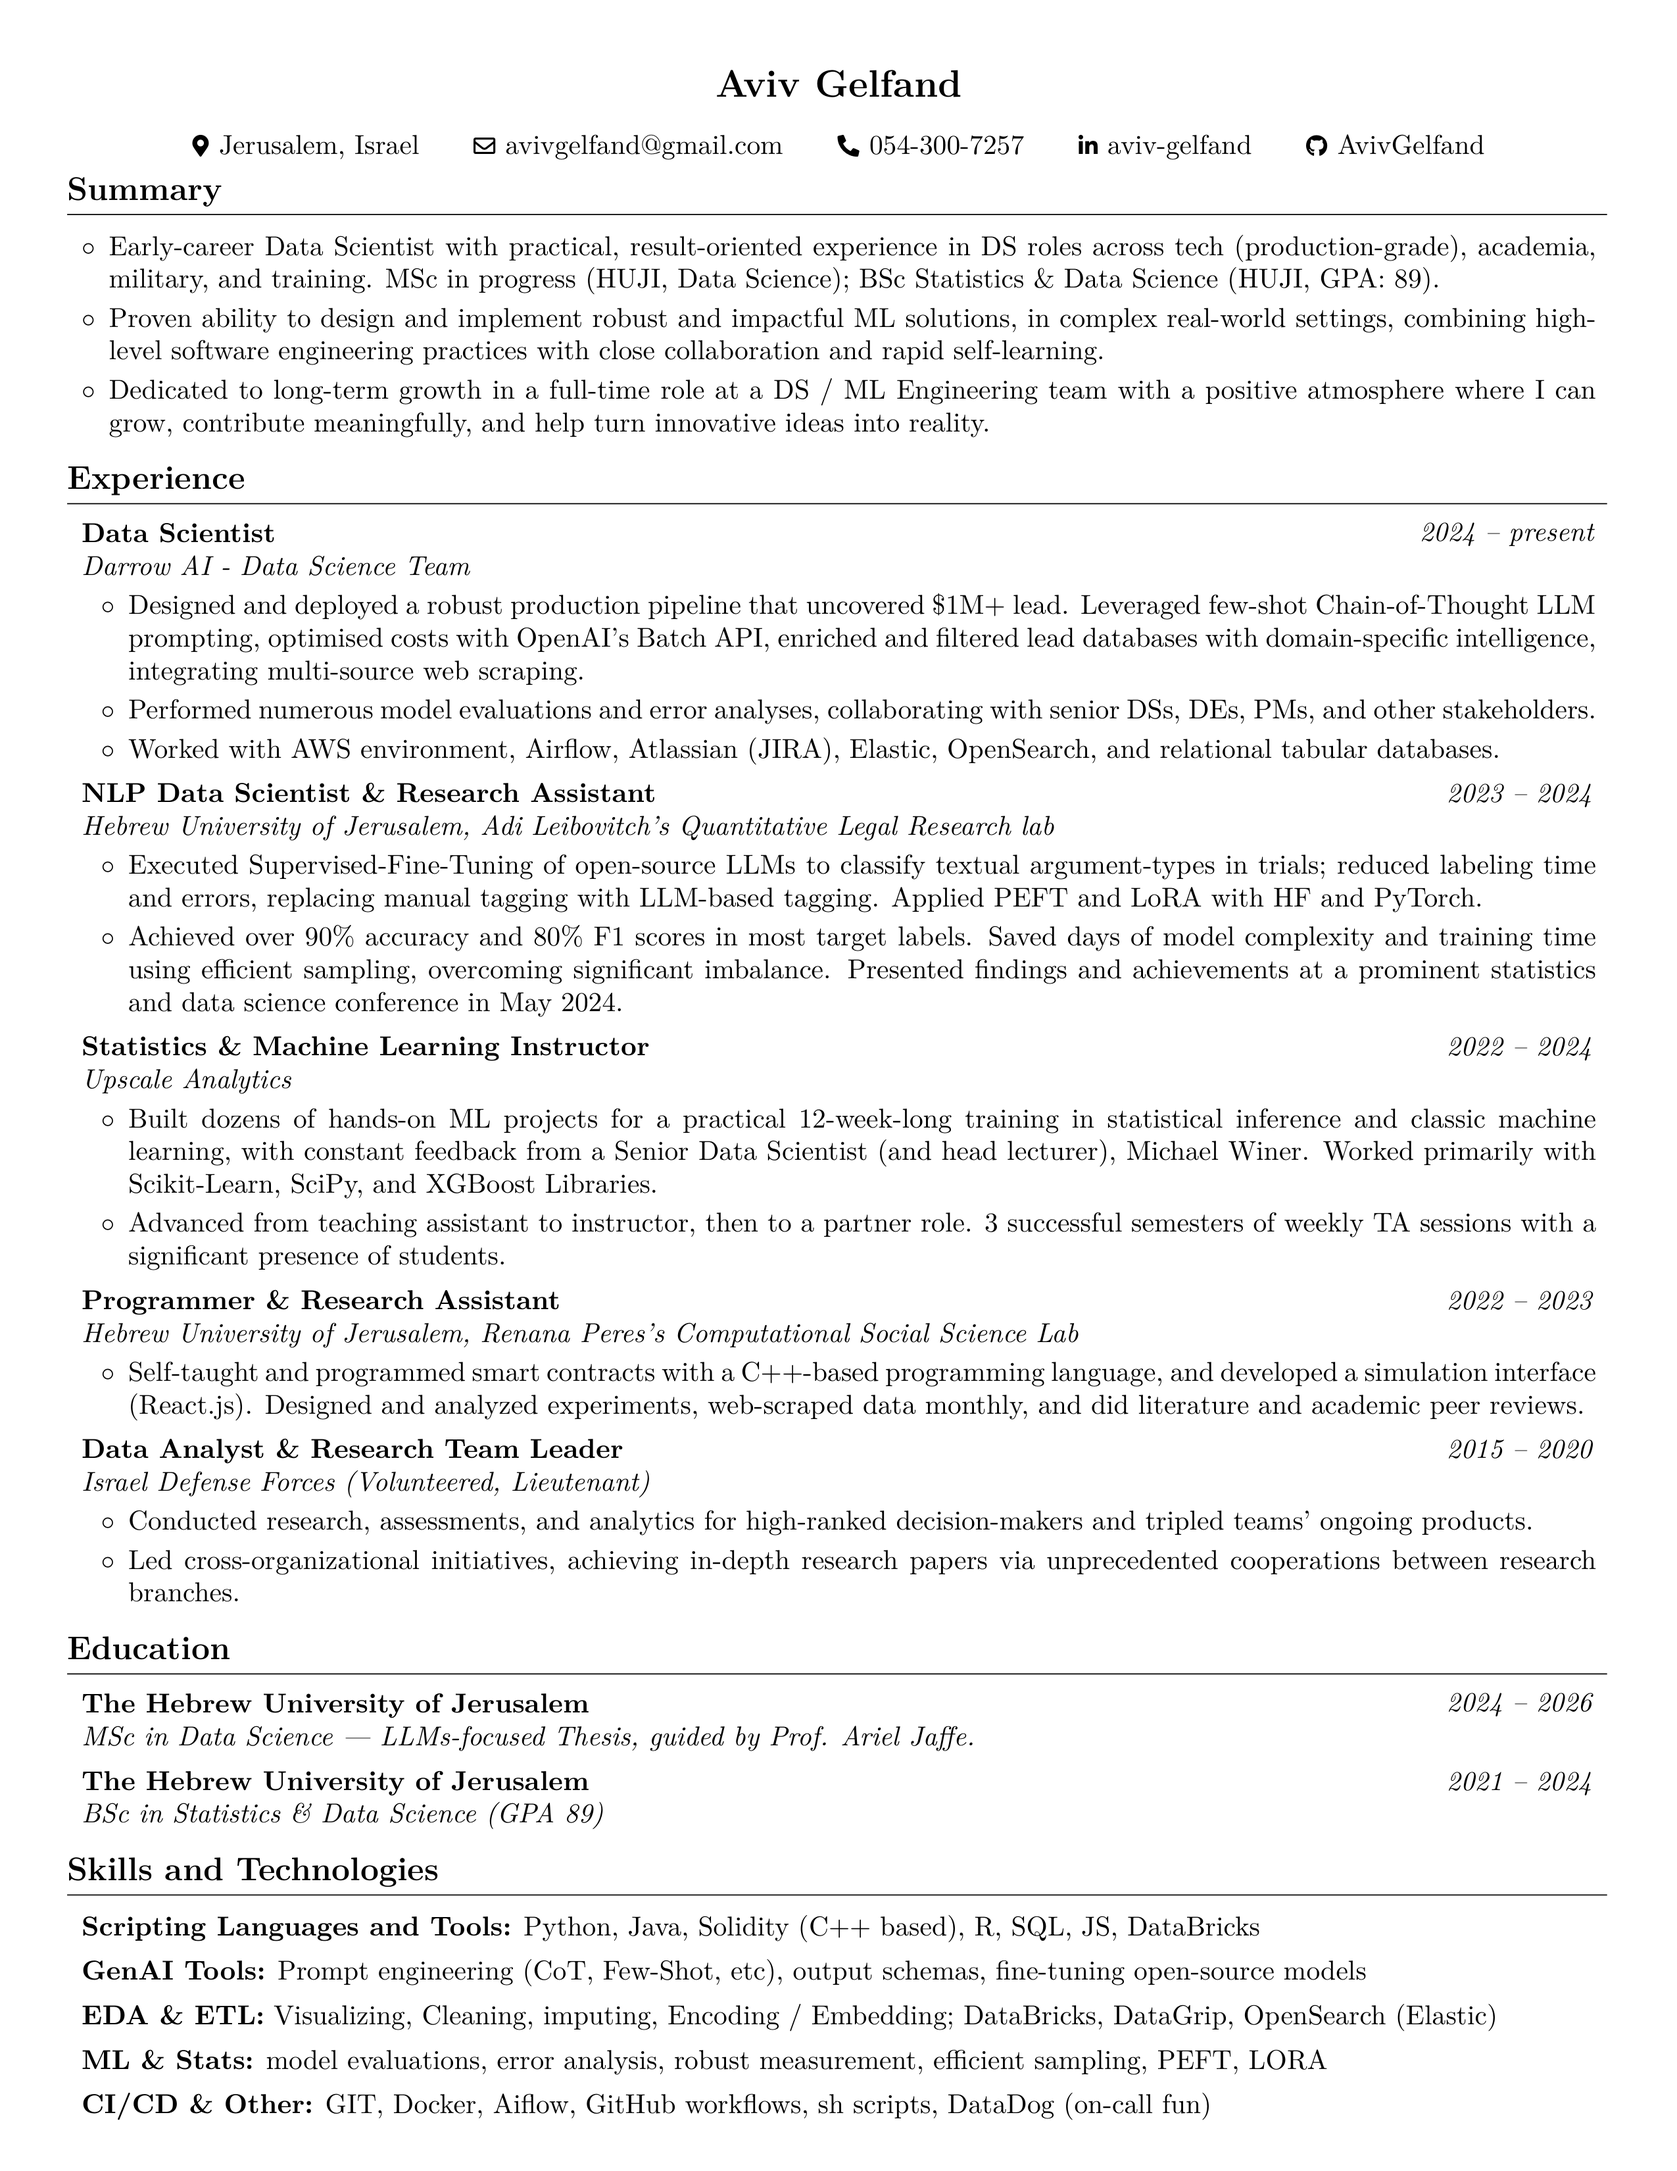
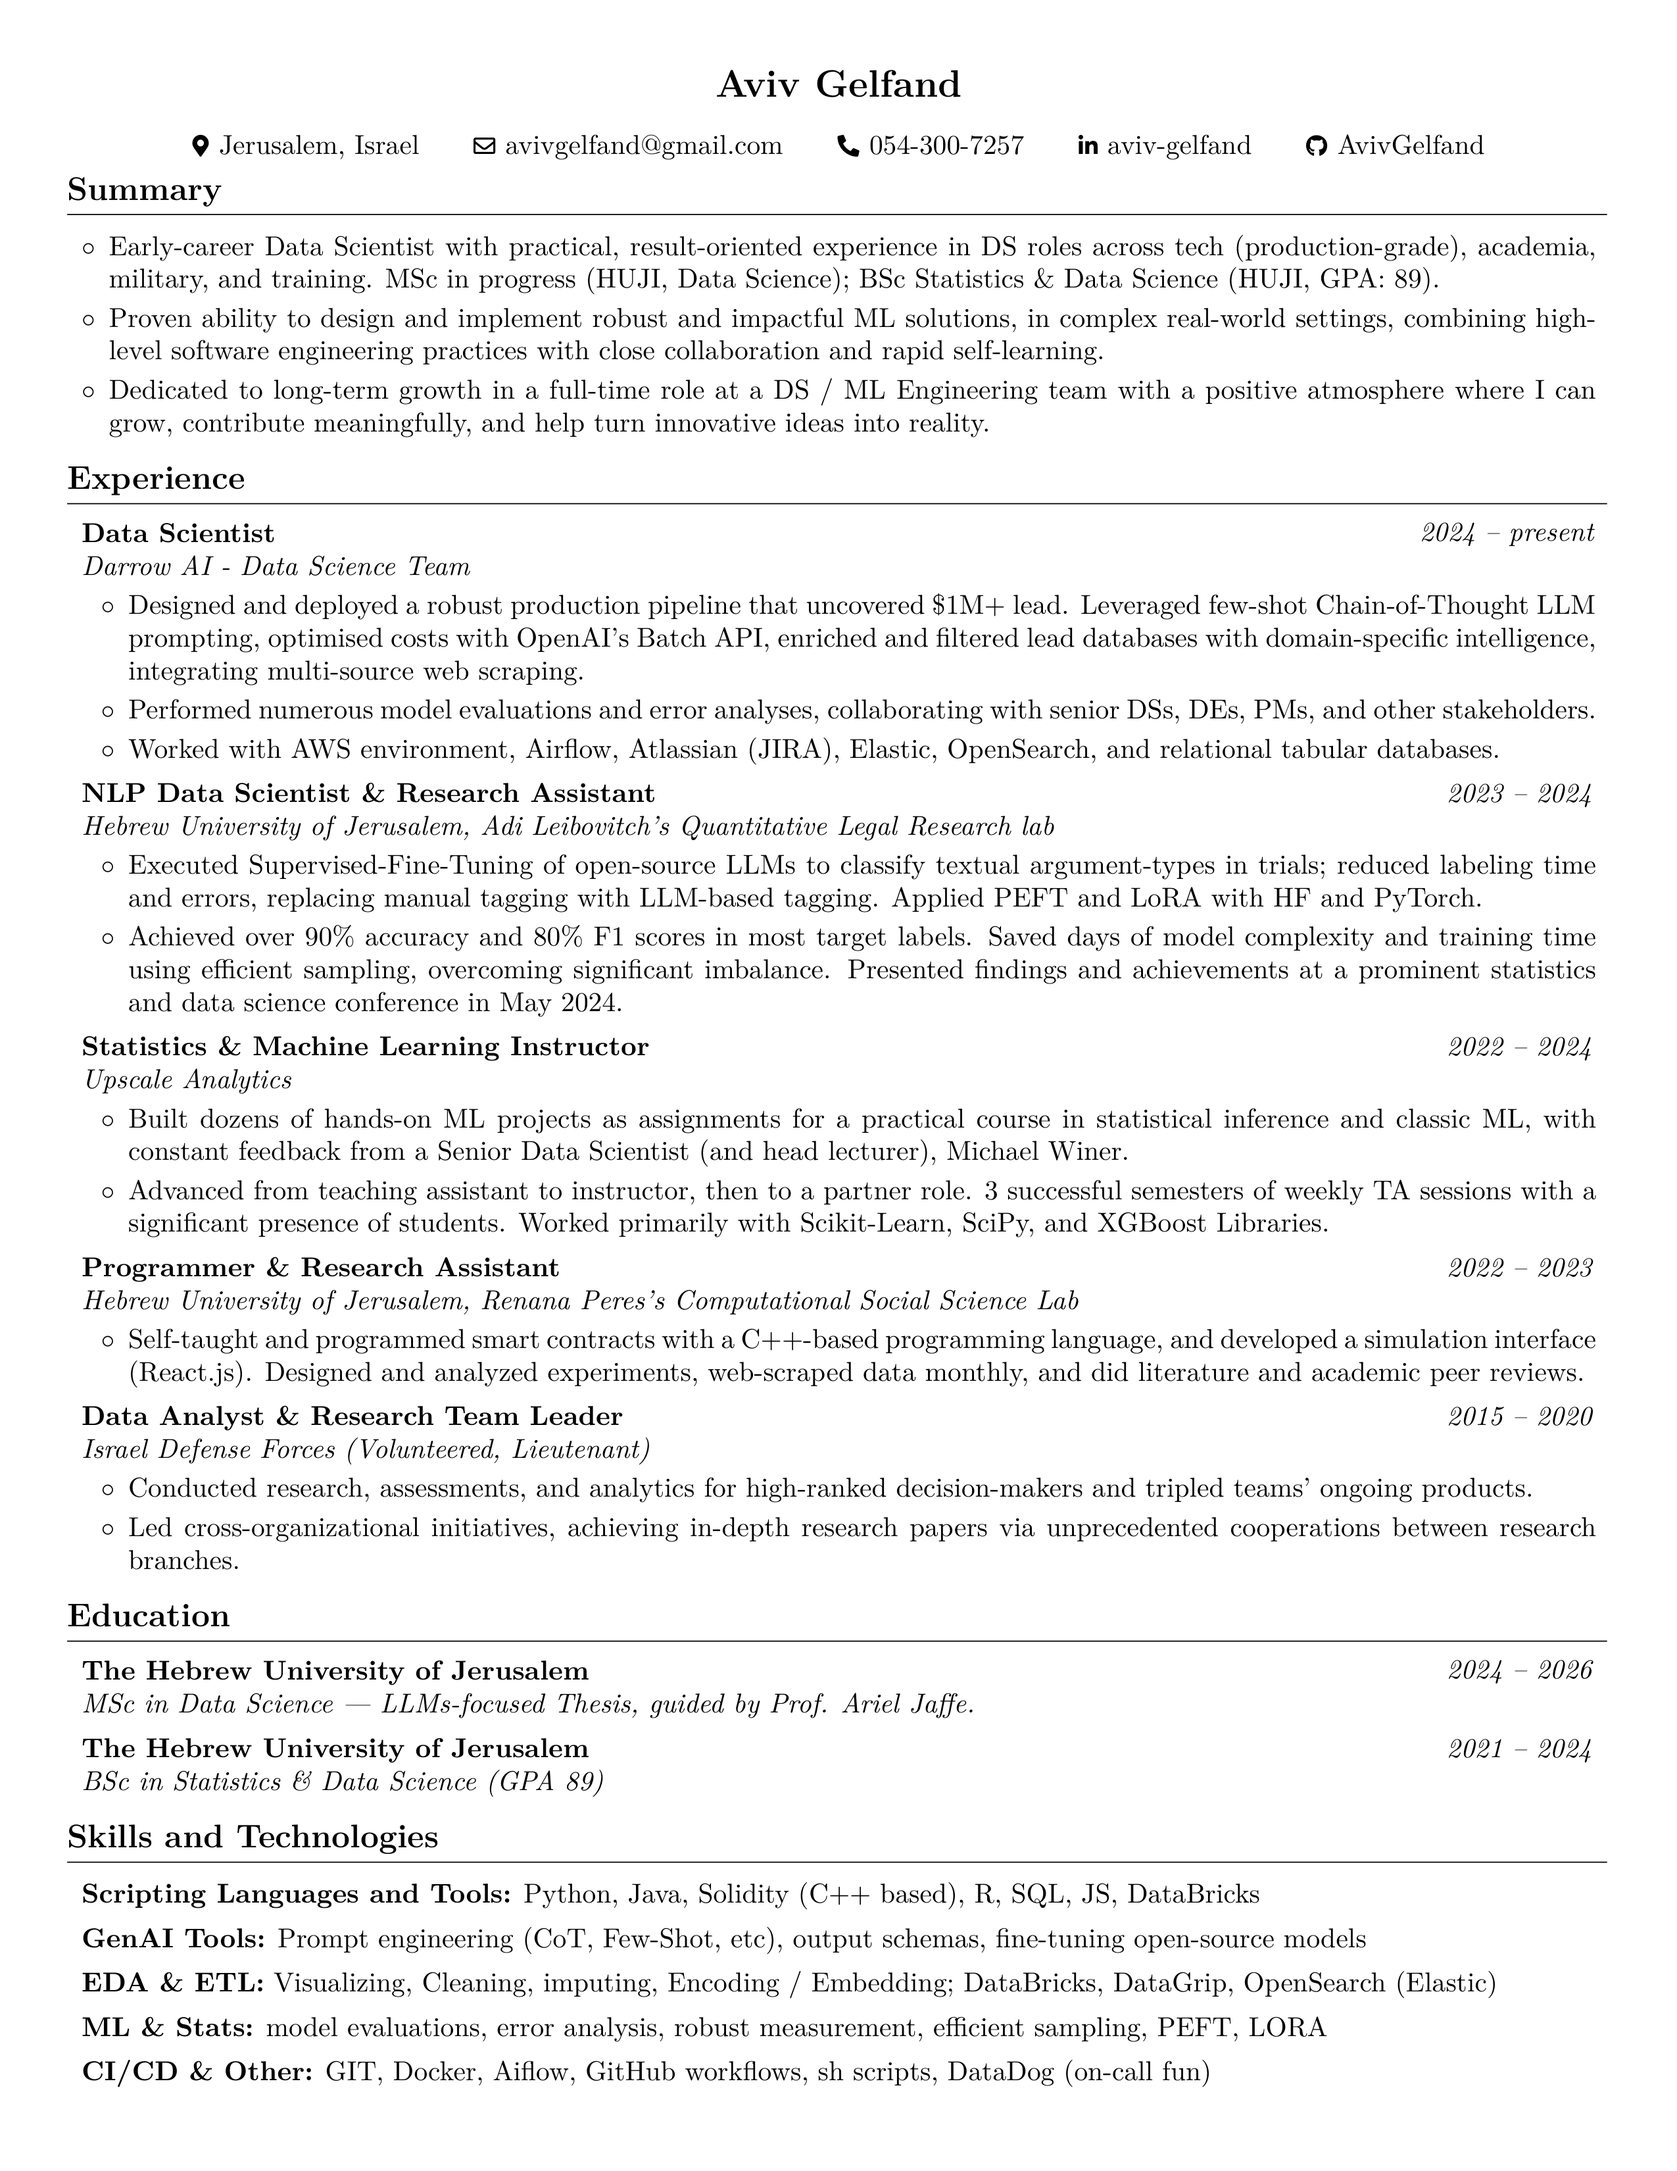
Render the latest CV

Changed region(s): [[0.031, 0.4994, 0.9604, 0.9676], [0.9294, 0.7491, 0.9604, 0.8115], [0.8675, 0.7491, 0.8984, 0.8115]]

diff --git a/Aviv_Gelfand_CV.html b/Aviv_Gelfand_CV.html
@@ -63,8 +63,8 @@
         <h2>Upscale Analytics, Statistics &amp; Machine Learning Instructor</h2>
         <ul>
         <li>2022 – 2024</li>
-        <li>Built dozens of hands-on  ML projects for a practical 12-week-long training in statistical inference and classic machine learning, with constant feedback from a Senior Data Scientist (and head lecturer), Michael Winer. Worked primarily with Scikit-Learn, SciPy, and XGBoost Libraries.</li>
-        <li>Advanced from teaching assistant to instructor, then to a partner role. 3 successful semesters of weekly TA sessions with a significant presence of students.</li>
+        <li>Built dozens of hands-on  ML projects as assignments for a practical course in statistical inference and classic ML, with constant feedback from a Senior Data Scientist (and head lecturer), Michael Winer.</li>
+        <li>Advanced from teaching assistant to instructor, then to a partner role. 3 successful semesters of weekly TA sessions with a significant presence of students. Worked primarily with Scikit-Learn, SciPy, and XGBoost Libraries.</li>
         </ul>
         <h2>Hebrew University of Jerusalem, Renana Peres's Computational Social Science Lab, Programmer &amp; Research Assistant</h2>
         <ul>

diff --git a/Aviv_Gelfand_CV.tex b/Aviv_Gelfand_CV.tex
@@ -249,8 +249,8 @@
         \vspace{0.08 cm}
         \begin{onecolentry}
             \begin{highlights}
-                \item Built dozens of hands-on  ML projects for a practical 12-week-long training in statistical inference and classic machine learning, with constant feedback from a Senior Data Scientist (and head lecturer), Michael Winer. Worked primarily with Scikit-Learn, SciPy, and XGBoost Libraries.
-                \item Advanced from teaching assistant to instructor, then to a partner role. 3 successful semesters of weekly TA sessions with a significant presence of students.
+                \item Built dozens of hands-on  ML projects as assignments for a practical course in statistical inference and classic ML, with constant feedback from a Senior Data Scientist (and head lecturer), Michael Winer.
+                \item Advanced from teaching assistant to instructor, then to a partner role. 3 successful semesters of weekly TA sessions with a significant presence of students. Worked primarily with Scikit-Learn, SciPy, and XGBoost Libraries.
             \end{highlights}
         \end{onecolentry}
 

diff --git a/README.md b/README.md
@@ -32,8 +32,8 @@
 ## Upscale Analytics, Statistics & Machine Learning Instructor
 
 - 2022 – 2024
-- Built dozens of hands-on  ML projects for a practical 12-week-long training in statistical inference and classic machine learning, with constant feedback from a Senior Data Scientist (and head lecturer), Michael Winer. Worked primarily with Scikit-Learn, SciPy, and XGBoost Libraries.
-- Advanced from teaching assistant to instructor, then to a partner role. 3 successful semesters of weekly TA sessions with a significant presence of students.
+- Built dozens of hands-on  ML projects as assignments for a practical course in statistical inference and classic ML, with constant feedback from a Senior Data Scientist (and head lecturer), Michael Winer.
+- Advanced from teaching assistant to instructor, then to a partner role. 3 successful semesters of weekly TA sessions with a significant presence of students. Worked primarily with Scikit-Learn, SciPy, and XGBoost Libraries.
 
 ## Hebrew University of Jerusalem, Renana Peres's Computational Social Science Lab, Programmer & Research Assistant
 
